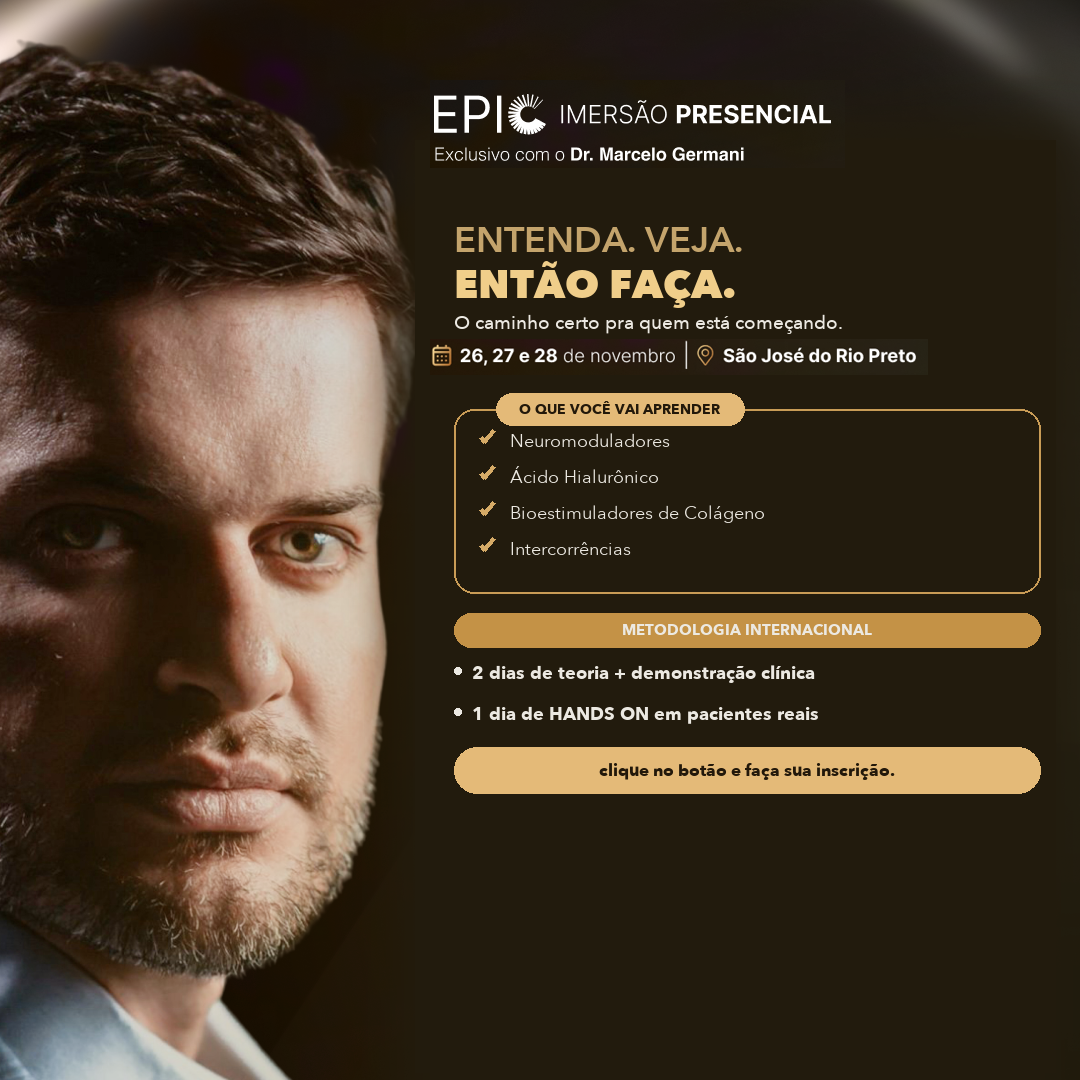
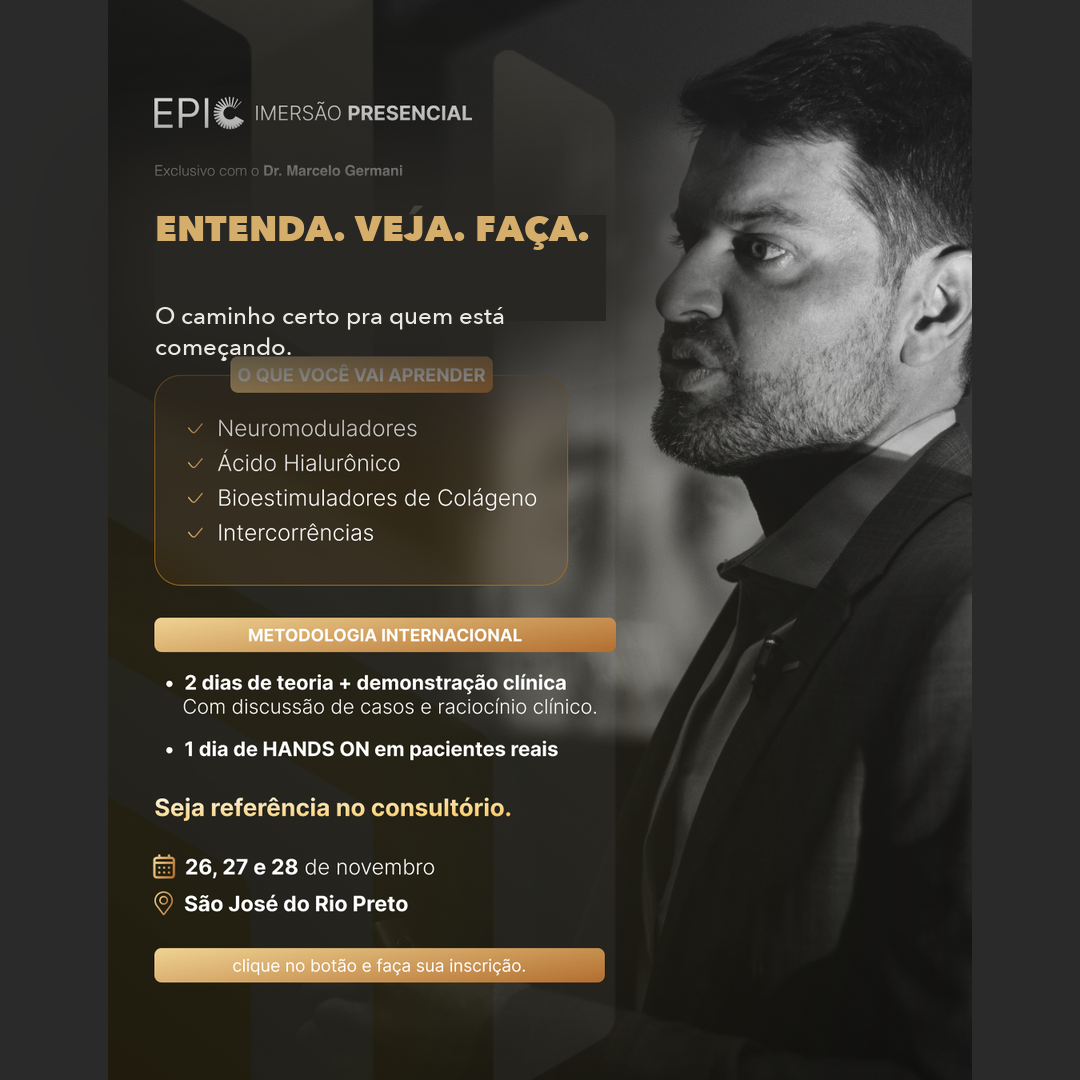
HOF: 6 das 10 pecas do EPIC Nov/26 agora usam a Arte2 P&B oficial (foto e diagramacao diferentes da Arte1 colorida)

diff --git a/hof/epic-nov26-criativos/index.html b/hof/epic-nov26-criativos/index.html
@@ -83,7 +83,7 @@ h1{font-size:clamp(32px,4.6vw,46px);line-height:1.05;letter-spacing:-.015em}
 <header class="topo">
   <div><p class="olho">HOF Germani · Dr. Marcelo Germani</p>
   <h1>EPIC — criativos para<br>aprovação</h1>
-  <p class="sub-t">Quinze peças prontas para a nova turma do EPIC: dez com foto do Dr. Marcelo variando formato e cor, e cinco conceitos "pattern interrupt" sem foto — tweet, WhatsApp, breaking news, poster e capa de revista — pra testar linguagem visual, não só gancho.</p></div>
+  <p class="sub-t">Quinze peças prontas para a nova turma do EPIC: dez com foto do Dr. Marcelo — 4 na Arte1 colorida (Feed 4:5) e 6 na Arte2 P&B com diagramação espelhada (Feed 1:1 e Story/Reels) — e cinco conceitos "pattern interrupt" sem foto — tweet, WhatsApp, breaking news, poster e capa de revista — pra testar linguagem visual, não só gancho.</p></div>
   <div class="selo"><b>15</b>peças montadas<br>3 formatos + 5 conceitos<br>3 paletas de cor</div>
 </header>
 
@@ -105,11 +105,11 @@ h1{font-size:clamp(32px,4.6vw,46px);line-height:1.05;letter-spacing:-.015em}
 
 <section class="bloco">
   <div class="curso-cab"><div><p class="olho">Para aprovação</p><h2>As dez peças</h2></div></div>
-  <p class="nota-secao">Mesma foto do Dr. Marcelo e mesma oferta em todas — muda o gancho, o público, o formato (Feed 1:1, Feed 4:5 ou Story/Reels 9:16) e a paleta de cor (dourado, verde-petróleo ou terracota), pra já nascer como teste de criativo de verdade. Peças já em tamanho final — é aprovar e subir.</p>
+  <p class="nota-secao">Mesma oferta em todas, mas a arte-base muda: 01, 04, 07 e 10 usam a Arte1 colorida (Feed 4:5, foto à esquerda, paleta dourado/verde-petróleo/terracota); 02, 03, 05, 06, 08 e 09 usam a Arte2 P&B oficial da Gio (Feed 1:1 e Story/Reels, foto à direita, diagramação espelhada). Muda o gancho, o público, o formato, a foto e a diagramação — pra já nascer como teste de criativo de verdade. Peças já em tamanho final — é aprovar e subir.</p>
   <div class="props">
 
     <article class="prop">
-      <a class="prop-img" href="/criativos/hof-epic-nov26/EPIC01_ALEMDAEXECUCAO.png?v=20261005d" target="_blank" rel="noopener"><img src="/criativos/hof-epic-nov26/EPIC01_ALEMDAEXECUCAO.png?v=20261005d" alt="EPIC01_ALEMDAEXECUCAO" loading="lazy" width="1080" height="1350"></a>
+      <a class="prop-img" href="/criativos/hof-epic-nov26/EPIC01_ALEMDAEXECUCAO.png?v=20261005e" target="_blank" rel="noopener"><img src="/criativos/hof-epic-nov26/EPIC01_ALEMDAEXECUCAO.png?v=20261005e" alt="EPIC01_ALEMDAEXECUCAO" loading="lazy" width="1080" height="1350"></a>
       <div class="prop-top"><span class="t-n">01 · Feed 4:5</span><span class="prop-pub">Já atua — ir além</span></div>
       <h4>Saber executar não é o mesmo que saber decidir</h4>
       <span class="prop-arq">EPIC01_ALEMDAEXECUCAO.png · Dourado</span>
@@ -119,27 +119,27 @@ h1{font-size:clamp(32px,4.6vw,46px);line-height:1.05;letter-spacing:-.015em}
     </article>
 
     <article class="prop">
-      <a class="prop-img" href="/criativos/hof-epic-nov26/EPIC02_COMOPORQUE.png?v=20261005d" target="_blank" rel="noopener"><img src="/criativos/hof-epic-nov26/EPIC02_COMOPORQUE.png?v=20261005d" alt="EPIC02_COMOPORQUE" loading="lazy" width="1080" height="1080"></a>
+      <a class="prop-img" href="/criativos/hof-epic-nov26/EPIC02_COMOPORQUE.png?v=20261005e" target="_blank" rel="noopener"><img src="/criativos/hof-epic-nov26/EPIC02_COMOPORQUE.png?v=20261005e" alt="EPIC02_COMOPORQUE" loading="lazy" width="1080" height="1080"></a>
       <div class="prop-top"><span class="t-n">02 · Feed 1:1</span><span class="prop-pub">Já atua — evoluir planejamento</span></div>
       <h4>Do "como fazer" para o "por que fazer"</h4>
       <span class="prop-arq">EPIC02_COMOPORQUE.png · Verde-petróleo</span>
       <pre class="prop-copy">Se você sente que ainda falta segurança para definir prioridades e montar planejamentos mais completos, o EPIC foi pensado pra isso. 3 dias com o Dr. Marcelo Germani: ciência, demonstração clínica ao vivo e prática supervisionada.</pre>
       <p class="prop-meta"><b>Descrição:</b> Neuromoduladores, ácido hialurônico e bioestimuladores — com visão clínica baseada em evidências.</p>
-      <p class="prop-visual"><b>Direção visual:</b> Carrossel ou estático com os "3 dias" ilustrados em ícones simples (cérebro/olho/mão) + foto do Dr. Marcelo.</p>
+      <p class="prop-visual"><b>Direção visual:</b> Arte oficial P&B da Gio (Arte2): foto do Dr. Marcelo à direita, texto à esquerda — diagramação espelhada em relação à Arte1 colorida usada nas peças em Feed 4:5.</p>
     </article>
 
     <article class="prop">
-      <a class="prop-img" href="/criativos/hof-epic-nov26/EPIC03_NAOPRECISASABER.png?v=20261005d" target="_blank" rel="noopener"><img src="/criativos/hof-epic-nov26/EPIC03_NAOPRECISASABER.png?v=20261005d" alt="EPIC03_NAOPRECISASABER" loading="lazy" width="1080" height="1920"></a>
+      <a class="prop-img" href="/criativos/hof-epic-nov26/EPIC03_NAOPRECISASABER.png?v=20261005e" target="_blank" rel="noopener"><img src="/criativos/hof-epic-nov26/EPIC03_NAOPRECISASABER.png?v=20261005e" alt="EPIC03_NAOPRECISASABER" loading="lazy" width="1080" height="1920"></a>
       <div class="prop-top"><span class="t-n">03 · Story/Reels 9:16</span><span class="prop-pub">Iniciante</span></div>
       <h4>Você não precisa chegar já sabendo tudo</h4>
       <span class="prop-arq">EPIC03_NAOPRECISASABER.png · Terracota</span>
       <pre class="prop-copy">O EPIC foi estruturado para quem está começando na Harmonização Facial: primeiro você entende, depois vê na prática, e só então executa — com supervisão direta do Dr. Marcelo Germani.</pre>
       <p class="prop-meta"><b>Descrição:</b> 3 dias de imersão presencial · 26 a 28/11 · Rio Preto/SP</p>
-      <p class="prop-visual"><b>Direção visual:</b> Depoimento ou fala direta pra câmera do Dr. Marcelo acolhendo quem está começando ("você não precisa dominar a técnica pra vir").</p>
+      <p class="prop-visual"><b>Direção visual:</b> Arte oficial P&B da Gio (Arte2), em Story/Reels — mesma diagramação espelhada (foto à direita, texto à esquerda) das demais peças desse lote.</p>
     </article>
 
     <article class="prop">
-      <a class="prop-img" href="/criativos/hof-epic-nov26/EPIC04_LINHADOTEMPO3DIAS.png?v=20261005d" target="_blank" rel="noopener"><img src="/criativos/hof-epic-nov26/EPIC04_LINHADOTEMPO3DIAS.png?v=20261005d" alt="EPIC04_LINHADOTEMPO3DIAS" loading="lazy" width="1080" height="1350"></a>
+      <a class="prop-img" href="/criativos/hof-epic-nov26/EPIC04_LINHADOTEMPO3DIAS.png?v=20261005e" target="_blank" rel="noopener"><img src="/criativos/hof-epic-nov26/EPIC04_LINHADOTEMPO3DIAS.png?v=20261005e" alt="EPIC04_LINHADOTEMPO3DIAS" loading="lazy" width="1080" height="1350"></a>
       <div class="prop-top"><span class="t-n">04 · Feed 4:5</span><span class="prop-pub">Já atua — ir além</span></div>
       <h4>Anatomia + raciocínio clínico + prática supervisionada</h4>
       <span class="prop-arq">EPIC04_LINHADOTEMPO3DIAS.png · Verde-petróleo</span>
@@ -149,27 +149,27 @@ h1{font-size:clamp(32px,4.6vw,46px);line-height:1.05;letter-spacing:-.015em}
     </article>
 
     <article class="prop">
-      <a class="prop-img" href="/criativos/hof-epic-nov26/EPIC05_BASESOLIDA.png?v=20261005d" target="_blank" rel="noopener"><img src="/criativos/hof-epic-nov26/EPIC05_BASESOLIDA.png?v=20261005d" alt="EPIC05_BASESOLIDA" loading="lazy" width="1080" height="1080"></a>
+      <a class="prop-img" href="/criativos/hof-epic-nov26/EPIC05_BASESOLIDA.png?v=20261005e" target="_blank" rel="noopener"><img src="/criativos/hof-epic-nov26/EPIC05_BASESOLIDA.png?v=20261005e" alt="EPIC05_BASESOLIDA" loading="lazy" width="1080" height="1080"></a>
       <div class="prop-top"><span class="t-n">05 · Feed 1:1</span><span class="prop-pub">Iniciante</span></div>
       <h4>Base sólida desde o primeiro procedimento</h4>
       <span class="prop-arq">EPIC05_BASESOLIDA.png · Terracota</span>
       <pre class="prop-copy">Construir segurança clínica começa antes da agulha. No EPIC, você aprende anatomia aplicada, planejamento e seleção de produtos antes de colocar a mão — com o Dr. Marcelo Germani.</pre>
       <p class="prop-meta"><b>Descrição:</b> 26, 27 e 28 de novembro · Hilton Garden Inn, São José do Rio Preto/SP</p>
-      <p class="prop-visual"><b>Direção visual:</b> Bastidor de sala de aula teórica (dia 1), ambiente organizado, Dr. Marcelo ensinando com modelo anatômico.</p>
+      <p class="prop-visual"><b>Direção visual:</b> Arte oficial P&B da Gio (Arte2), Feed 1:1 — foto do Dr. Marcelo à direita, texto à esquerda.</p>
     </article>
 
     <article class="prop">
-      <a class="prop-img" href="/criativos/hof-epic-nov26/EPIC06_QUALPRODUTO.png?v=20261005d" target="_blank" rel="noopener"><img src="/criativos/hof-epic-nov26/EPIC06_QUALPRODUTO.png?v=20261005d" alt="EPIC06_QUALPRODUTO" loading="lazy" width="1080" height="1920"></a>
+      <a class="prop-img" href="/criativos/hof-epic-nov26/EPIC06_QUALPRODUTO.png?v=20261005e" target="_blank" rel="noopener"><img src="/criativos/hof-epic-nov26/EPIC06_QUALPRODUTO.png?v=20261005e" alt="EPIC06_QUALPRODUTO" loading="lazy" width="1080" height="1920"></a>
       <div class="prop-top"><span class="t-n">06 · Story/Reels 9:16</span><span class="prop-pub">Já atua — evoluir planejamento</span></div>
       <h4>Qual produto, quando usar e quando não usar</h4>
       <span class="prop-arq">EPIC06_QUALPRODUTO.png · Dourado</span>
       <pre class="prop-copy">Dominar a técnica é só parte do caminho. O EPIC aprofunda neuromoduladores, ácido hialurônico, bioestimuladores e prevenção de complicações — para você decidir com mais segurança em cada caso.</pre>
       <p class="prop-meta"><b>Descrição:</b> 3 dias com o Dr. Marcelo Germani · 26 a 28/11</p>
-      <p class="prop-visual"><b>Direção visual:</b> Foto de produtos/materiais organizados na mesa de planejamento, estética clínica e profissional.</p>
+      <p class="prop-visual"><b>Direção visual:</b> Arte oficial P&B da Gio (Arte2), em Story/Reels — foto do Dr. Marcelo à direita, texto à esquerda.</p>
     </article>
 
     <article class="prop">
-      <a class="prop-img" href="/criativos/hof-epic-nov26/EPIC07_DEMOAOVIVO.png?v=20261005d" target="_blank" rel="noopener"><img src="/criativos/hof-epic-nov26/EPIC07_DEMOAOVIVO.png?v=20261005d" alt="EPIC07_DEMOAOVIVO" loading="lazy" width="1080" height="1350"></a>
+      <a class="prop-img" href="/criativos/hof-epic-nov26/EPIC07_DEMOAOVIVO.png?v=20261005e" target="_blank" rel="noopener"><img src="/criativos/hof-epic-nov26/EPIC07_DEMOAOVIVO.png?v=20261005e" alt="EPIC07_DEMOAOVIVO" loading="lazy" width="1080" height="1350"></a>
       <div class="prop-top"><span class="t-n">07 · Feed 4:5</span><span class="prop-pub">Todos — autoridade</span></div>
       <h4>Você vê o Dr. Marcelo atendendo pacientes ao vivo</h4>
       <span class="prop-arq">EPIC07_DEMOAOVIVO.png · Terracota</span>
@@ -179,27 +179,27 @@ h1{font-size:clamp(32px,4.6vw,46px);line-height:1.05;letter-spacing:-.015em}
     </article>
 
     <article class="prop">
-      <a class="prop-img" href="/criativos/hof-epic-nov26/EPIC08_ENTENDEVEFAZ.png?v=20261005d" target="_blank" rel="noopener"><img src="/criativos/hof-epic-nov26/EPIC08_ENTENDEVEFAZ.png?v=20261005d" alt="EPIC08_ENTENDEVEFAZ" loading="lazy" width="1080" height="1080"></a>
+      <a class="prop-img" href="/criativos/hof-epic-nov26/EPIC08_ENTENDEVEFAZ.png?v=20261005e" target="_blank" rel="noopener"><img src="/criativos/hof-epic-nov26/EPIC08_ENTENDEVEFAZ.png?v=20261005e" alt="EPIC08_ENTENDEVEFAZ" loading="lazy" width="1080" height="1080"></a>
       <div class="prop-top"><span class="t-n">08 · Feed 1:1</span><span class="prop-pub">Iniciante</span></div>
       <h4>Primeiro você entende. Depois você vê. Então você faz.</h4>
       <span class="prop-arq">EPIC08_ENTENDEVEFAZ.png · Dourado</span>
       <pre class="prop-copy">Essa é a lógica do EPIC: 3 dias construídos para quem está iniciando na Harmonização Facial, do fundamento teórico até a prática supervisionada com o Dr. Marcelo Germani e equipe.</pre>
       <p class="prop-meta"><b>Descrição:</b> 26, 27 e 28/11 · Hilton Garden Inn, São José do Rio Preto/SP</p>
-      <p class="prop-visual"><b>Direção visual:</b> Três fotos lado a lado (sala de aula → demonstração → hands-on) numa sequência visual de progresso.</p>
+      <p class="prop-visual"><b>Direção visual:</b> Arte oficial P&B da Gio (Arte2), Feed 1:1 — foto do Dr. Marcelo à direita, texto à esquerda.</p>
     </article>
 
     <article class="prop">
-      <a class="prop-img" href="/criativos/hof-epic-nov26/EPIC09_EXECUTARXENTENDER.png?v=20261005d" target="_blank" rel="noopener"><img src="/criativos/hof-epic-nov26/EPIC09_EXECUTARXENTENDER.png?v=20261005d" alt="EPIC09_EXECUTARXENTENDER" loading="lazy" width="1080" height="1920"></a>
+      <a class="prop-img" href="/criativos/hof-epic-nov26/EPIC09_EXECUTARXENTENDER.png?v=20261005e" target="_blank" rel="noopener"><img src="/criativos/hof-epic-nov26/EPIC09_EXECUTARXENTENDER.png?v=20261005e" alt="EPIC09_EXECUTARXENTENDER" loading="lazy" width="1080" height="1920"></a>
       <div class="prop-top"><span class="t-n">09 · Story/Reels 9:16</span><span class="prop-pub">Já atua — ir além</span></div>
       <h4>O que separa quem executa de quem realmente entende</h4>
       <span class="prop-arq">EPIC09_EXECUTARXENTENDER.png · Verde-petróleo</span>
       <pre class="prop-copy">O EPIC não ensina só técnica — ensina o raciocínio clínico por trás de cada escolha. 3 dias de imersão com o Dr. Marcelo Germani, prática supervisionada e 3 meses de HSS PLAY incluso.</pre>
       <p class="prop-meta"><b>Descrição:</b> 26 a 28 de novembro · São José do Rio Preto/SP</p>
-      <p class="prop-visual"><b>Direção visual:</b> Dr. Marcelo falando direto pra câmera (hook forte), fundo de consultório ou sala de imersão.</p>
+      <p class="prop-visual"><b>Direção visual:</b> Arte oficial P&B da Gio (Arte2), em Story/Reels — foto do Dr. Marcelo à direita, texto à esquerda.</p>
     </article>
 
     <article class="prop">
-      <a class="prop-img" href="/criativos/hof-epic-nov26/EPIC10_BONUSHSSPLAY.png?v=20261005d" target="_blank" rel="noopener"><img src="/criativos/hof-epic-nov26/EPIC10_BONUSHSSPLAY.png?v=20261005d" alt="EPIC10_BONUSHSSPLAY" loading="lazy" width="1080" height="1350"></a>
+      <a class="prop-img" href="/criativos/hof-epic-nov26/EPIC10_BONUSHSSPLAY.png?v=20261005e" target="_blank" rel="noopener"><img src="/criativos/hof-epic-nov26/EPIC10_BONUSHSSPLAY.png?v=20261005e" alt="EPIC10_BONUSHSSPLAY" loading="lazy" width="1080" height="1350"></a>
       <div class="prop-top"><span class="t-n">10 · Feed 4:5</span><span class="prop-pub">Todos — bônus</span></div>
       <h4>3 dias presenciais + 3 meses de conteúdo pra revisar depois</h4>
       <span class="prop-arq">EPIC10_BONUSHSSPLAY.png · Dourado</span>
@@ -217,7 +217,7 @@ h1{font-size:clamp(32px,4.6vw,46px);line-height:1.05;letter-spacing:-.015em}
   <div class="conceitos">
 
     <article class="conc">
-      <a class="conc-img" href="/criativos/hof-epic-nov26/EPICX_TWEET.png?v=20261005d" target="_blank" rel="noopener"><img src="/criativos/hof-epic-nov26/EPICX_TWEET.png?v=20261005d" alt="Conceito tweet" loading="lazy"></a>
+      <a class="conc-img" href="/criativos/hof-epic-nov26/EPICX_TWEET.png?v=20261005e" target="_blank" rel="noopener"><img src="/criativos/hof-epic-nov26/EPICX_TWEET.png?v=20261005e" alt="Conceito tweet" loading="lazy"></a>
       <div class="conc-body">
         <h4>1 · Print de tweet (X/Twitter)</h4>
         <p>Simula um post antigo do Twitter do próprio Dr. Marcelo, com quote-card da oferta embutido. Formato 1080×960, EPICX_TWEET.png.</p>
@@ -225,7 +225,7 @@ h1{font-size:clamp(32px,4.6vw,46px);line-height:1.05;letter-spacing:-.015em}
     </article>
 
     <article class="conc">
-      <a class="conc-img" href="/criativos/hof-epic-nov26/EPICX_POSTER.png?v=20261005d" target="_blank" rel="noopener"><img src="/criativos/hof-epic-nov26/EPICX_POSTER.png?v=20261005d" alt="Conceito poster tipográfico" loading="lazy"></a>
+      <a class="conc-img" href="/criativos/hof-epic-nov26/EPICX_POSTER.png?v=20261005e" target="_blank" rel="noopener"><img src="/criativos/hof-epic-nov26/EPICX_POSTER.png?v=20261005e" alt="Conceito poster tipográfico" loading="lazy"></a>
       <div class="conc-body">
         <h4>2 · Poster tipográfico</h4>
         <p>Só logo + tipografia grande sobre gradiente verde-petróleo, sem nenhum elemento de foto — estética de poster editorial. Formato 1080×1350, EPICX_POSTER.png.</p>
@@ -233,7 +233,7 @@ h1{font-size:clamp(32px,4.6vw,46px);line-height:1.05;letter-spacing:-.015em}
     </article>
 
     <article class="conc">
-      <a class="conc-img" href="/criativos/hof-epic-nov26/EPICX_WHATSAPP.png?v=20261005d" target="_blank" rel="noopener"><img src="/criativos/hof-epic-nov26/EPICX_WHATSAPP.png?v=20261005d" alt="Conceito WhatsApp" loading="lazy"></a>
+      <a class="conc-img" href="/criativos/hof-epic-nov26/EPICX_WHATSAPP.png?v=20261005e" target="_blank" rel="noopener"><img src="/criativos/hof-epic-nov26/EPICX_WHATSAPP.png?v=20261005e" alt="Conceito WhatsApp" loading="lazy"></a>
       <div class="conc-body">
         <h4>3 · Print de conversa no WhatsApp</h4>
         <p>Mockup de chat (cabeçalho, bolhas, confirmação de leitura, campo de resposta) simulando a abordagem que o cliente recebe de verdade. Formato 1080×1460, EPICX_WHATSAPP.png.</p>
@@ -241,7 +241,7 @@ h1{font-size:clamp(32px,4.6vw,46px);line-height:1.05;letter-spacing:-.015em}
     </article>
 
     <article class="conc">
-      <a class="conc-img" href="/criativos/hof-epic-nov26/EPICX_NEWS.png?v=20261005d" target="_blank" rel="noopener"><img src="/criativos/hof-epic-nov26/EPICX_NEWS.png?v=20261005d" alt="Conceito breaking news" loading="lazy"></a>
+      <a class="conc-img" href="/criativos/hof-epic-nov26/EPICX_NEWS.png?v=20261005e" target="_blank" rel="noopener"><img src="/criativos/hof-epic-nov26/EPICX_NEWS.png?v=20261005e" alt="Conceito breaking news" loading="lazy"></a>
       <div class="conc-body">
         <h4>4 · Breaking news / última chamada</h4>
         <p>Linguagem de telejornal — faixa vermelha "PRESENCIAL" com pino de localização, tipografia condensada em caixa alta, rodapé tipo ticker de notícia. Formato 1080×1080, EPICX_NEWS.png.</p>
@@ -249,7 +249,7 @@ h1{font-size:clamp(32px,4.6vw,46px);line-height:1.05;letter-spacing:-.015em}
     </article>
 
     <article class="conc">
-      <a class="conc-img" href="/criativos/hof-epic-nov26/EPICX_MAGAZINE.png?v=20261005d" target="_blank" rel="noopener"><img src="/criativos/hof-epic-nov26/EPICX_MAGAZINE.png?v=20261005d" alt="Conceito capa de revista" loading="lazy"></a>
+      <a class="conc-img" href="/criativos/hof-epic-nov26/EPICX_MAGAZINE.png?v=20261005e" target="_blank" rel="noopener"><img src="/criativos/hof-epic-nov26/EPICX_MAGAZINE.png?v=20261005e" alt="Conceito capa de revista" loading="lazy"></a>
       <div class="conc-body">
         <h4>5 · Capa de revista</h4>
         <p>Masthead serifado, pull-quote editorial e cover-lines como manchete de revista — tom premium, fundo creme, zero dark mode. Formato 1080×1350, EPICX_MAGAZINE.png.</p>
